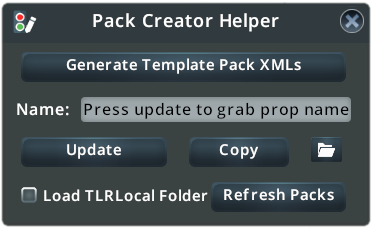
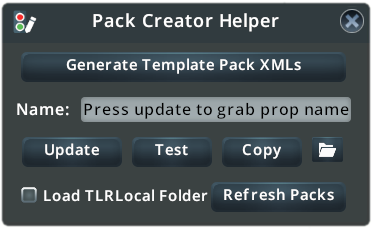
packcreation update

diff --git a/_posts/documentation/2000-01-03-pack-creation.md b/_posts/documentation/2000-01-03-pack-creation.md
@@ -123,7 +123,11 @@ Once enabled you should see a window that looks like this:
 This button exports two XML files, one for each configuration [type](/documentation/pack-creation/#xml-types)
 
 ## Update
-This copies the selected prop's name into the name box. Use the [Find It! 2](https://steamcommunity.com/sharedfiles/filedetails/?id=2133885971) mod to search and to select a prop
+Copies the selected prop's name into the name box. Use the [Find It! 2](https://steamcommunity.com/sharedfiles/filedetails/?id=2133885971) mod to search and to select a prop
+
+## Test
+
+Replaces all traffic light props with the prop name in the Name field
 
 ## Copy
 
